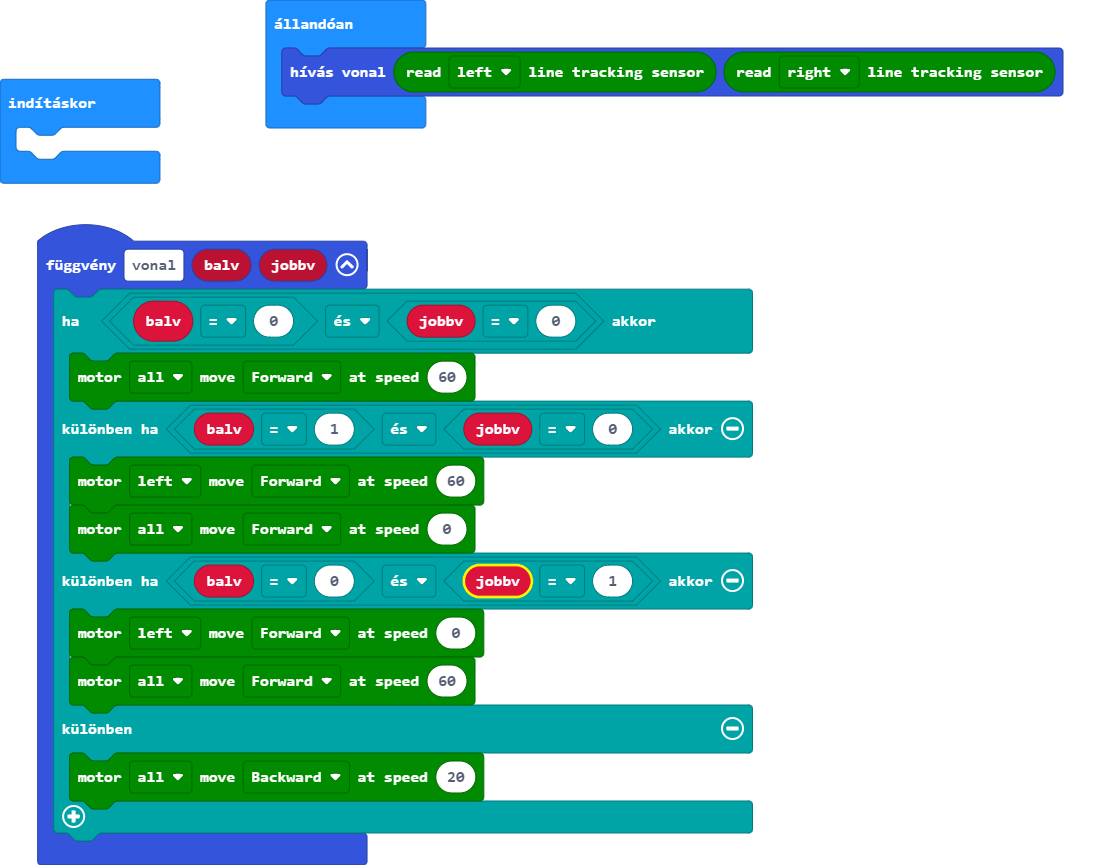
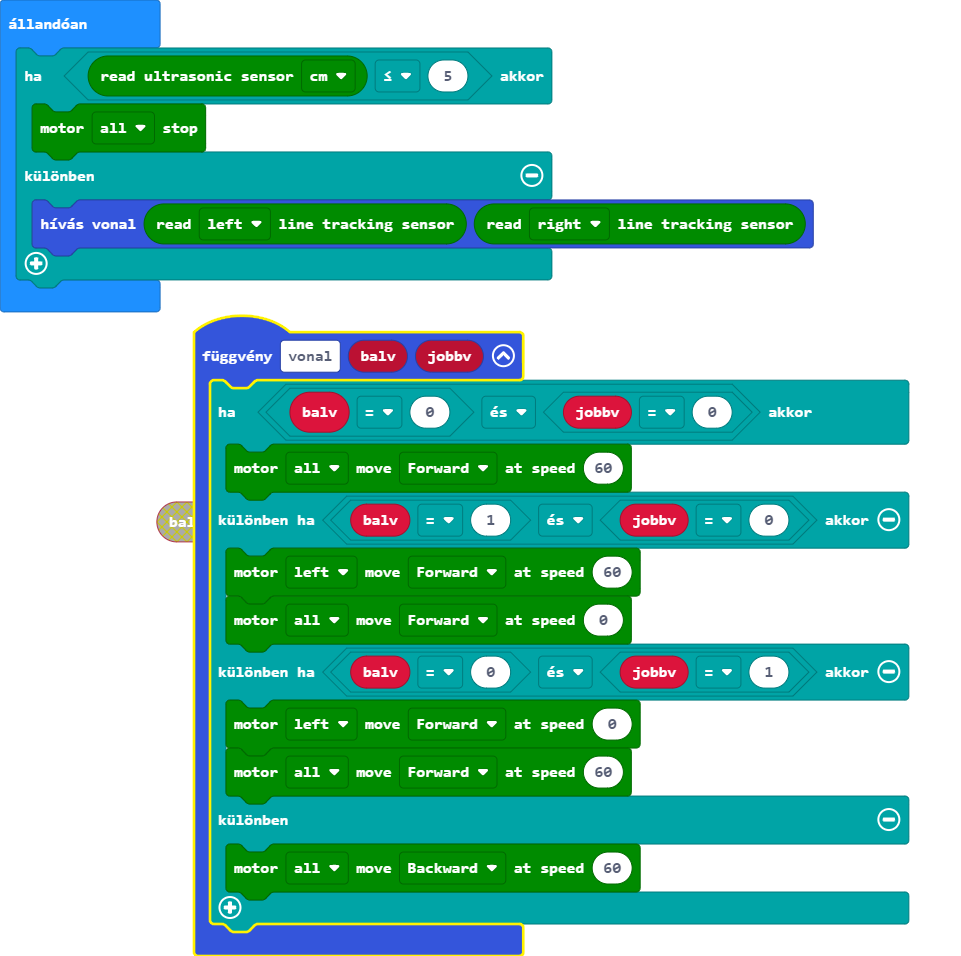
pxt.json, main.blocks, main.ts frissítése

diff --git a/main.ts b/main.ts
@@ -8,9 +8,13 @@ function vonal (balv: number, jobbv: number) {
         maqueen.motorRun(maqueen.Motors.M1, maqueen.Dir.CW, 0)
         maqueen.motorRun(maqueen.Motors.All, maqueen.Dir.CW, 60)
     } else {
-        maqueen.motorRun(maqueen.Motors.All, maqueen.Dir.CCW, 20)
+        maqueen.motorRun(maqueen.Motors.All, maqueen.Dir.CCW, 60)
     }
 }
 basic.forever(function () {
-    vonal(maqueen.readPatrol(maqueen.Patrol.PatrolLeft), maqueen.readPatrol(maqueen.Patrol.PatrolRight))
+    if (maqueen.Ultrasonic(PingUnit.Centimeters) <= 5) {
+        maqueen.motorStop(maqueen.Motors.All)
+    } else {
+        vonal(maqueen.readPatrol(maqueen.Patrol.PatrolLeft), maqueen.readPatrol(maqueen.Patrol.PatrolRight))
+    }
 })
